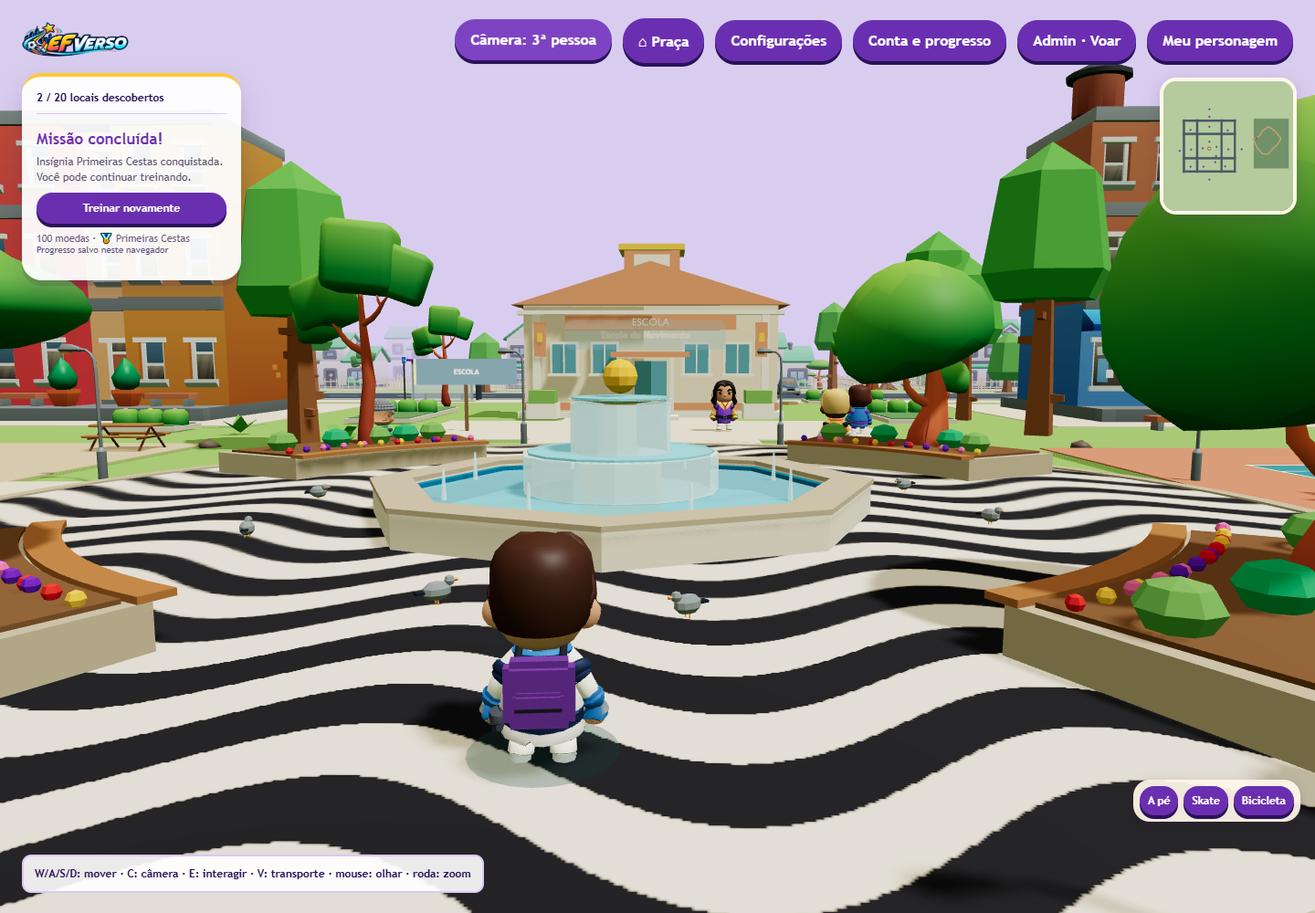
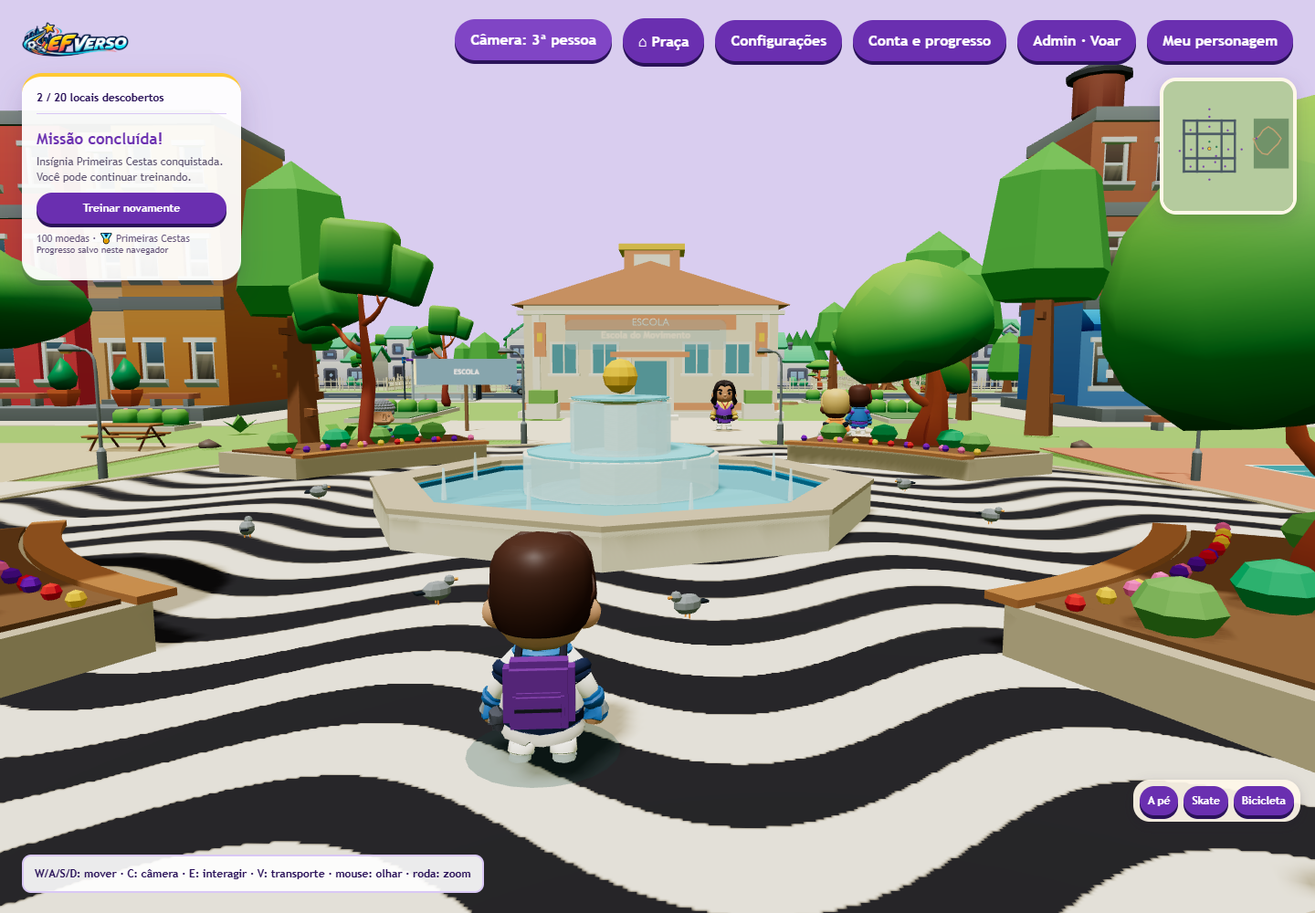
Céu dia/noite, mais trânsito com sinal, skate/bike com embalo e acampamento
- src/sky.js: céu dinâmico no horário real de Brasília (sol, lua, estrelas,
  cor do céu/neblina); campo de visão bem mais longe.
- src/traffic.js: 18 veículos (antes 10), sinal de trânsito alternando nos
  cantos da malha viária.
- src/main.js: skate/bike ganham e perdem velocidade aos poucos (embalo) em
  vez de andar/parar instantâneo; A/D vira o personagem por padrão na 3ª
  pessoa (strafe vira opção em Configurações).
- src/adventure.js: Acampamento da Serra (cabanas, fogueira, bancos) e mata
  duas vezes mais densa no Parque de Aventura.
- src/student-character.js: postura agachada no skate em movimento.

diff --git a/src/main.js b/src/main.js
@@ -25,16 +25,23 @@ import {createCloudSave} from './cloud-save.js';
 import {createTravel} from './travel.js';
 import {createTraffic} from './traffic.js';
 import {createAdventure,adventureHeight,canExplore,TRAIL} from './adventure.js';
+import {createSky} from './sky.js';
 const $=s=>document.querySelector(s),scene=new T.Scene(),solids=[],keys=new Set(),touch={x:0,y:0};
-// Colours, light and fog follow Jogo_RPG_EF7 (A Vila em Movimento).
-scene.background=new T.Color('#d9cdef');scene.fog=new T.Fog('#d9cdef',55,120);
+// Céu, cor e neblina: base do visual do Jogo_RPG_EF7, agora variando com o horário real de Brasília
+// (src/sky.js controla scene.background/fog, a luz do sol e a do hemisfério a cada quadro).
+scene.background=new T.Color('#d9cdef');scene.fog=new T.Fog('#d9cdef',140,460);
 const renderer=new T.WebGLRenderer({antialias:true});renderer.setPixelRatio(Math.min(devicePixelRatio,1.5));renderer.setSize(innerWidth,innerHeight);renderer.outputColorSpace=T.SRGBColorSpace;renderer.toneMapping=T.ACESFilmicToneMapping;renderer.toneMappingExposure=1.05;$('#world').append(renderer.domElement);
 renderer.shadowMap.enabled=!matchMedia('(pointer:coarse)').matches;renderer.shadowMap.type=T.PCFSoftShadowMap;
-scene.add(new T.HemisphereLight(0xfff6e0,0x6f8a4e,1.6));const sun=new T.DirectionalLight(0xffffff,2.2);sun.castShadow=true;sun.shadow.mapSize.set(1024,1024);Object.assign(sun.shadow.camera,{left:-28,right:28,top:28,bottom:-28,near:1,far:120});sun.shadow.normalBias=.03;sun.shadow.bias=-.0005;scene.add(sun,sun.target);
+const hemi=new T.HemisphereLight(0xfff6e0,0x6f8a4e,1.6);scene.add(hemi);const sun=new T.DirectionalLight(0xffffff,2.2);sun.castShadow=true;sun.shadow.mapSize.set(1024,1024);Object.assign(sun.shadow.camera,{left:-28,right:28,top:28,bottom:-28,near:1,far:120});sun.shadow.normalBias=.03;sun.shadow.bias=-.0005;scene.add(sun,sun.target);
+const sky=createSky({scene,sun,hemisphere:hemi});
 // 'cima': 3/4 view from above that follows the student; 'third': behind the student. Mouse wheel zooms both.
-const iso=new T.PerspectiveCamera(42,innerWidth/innerHeight,.3,200),third=new T.PerspectiveCamera(55,innerWidth/innerHeight,.1,130);
+// Campo de visão mais longe: dá para ver prédios e a montanha de longe em vez de sumirem na neblina perto.
+const iso=new T.PerspectiveCamera(42,innerWidth/innerHeight,.3,650),third=new T.PerspectiveCamera(55,innerWidth/innerHeight,.1,550);
 let zoom=1,thirdDistance=6;
 let mode='iso',yaw=0,active=iso,thirdPitch=.07,ready=false,navigation,nearest=null,nearbyResident=null,route=[],running=false,verticalSpeed=0,elapsed=0,avatar,mission,customizer,crowd,skaters,ambient,hoopsMatch,soccerMatch,volleyMatch,skateMatch,onboarding,theory,travel,traffic,adventure,cloud;
+// Skate/bicicleta ganham e perdem velocidade aos poucos (em vez de andar/parar instantâneo como a
+// pé) e continuam deslizando/pedalando um pouco na última direção ao soltar as teclas (embalo).
+let rideSpeed=0;const rideDir={x:0,z:1};
 let storage;try{storage=localStorage;}catch{storage={getItem(){throw Error('Storage unavailable');},setItem(){throw Error('Storage unavailable');}};}
 const progress=createProgress(storage),wallet=createWallet(storage),visited=new Set(progress.state.visited),dialog=$('#info'),labels=[];
 const player=new T.Group();player.position.set(0,0,10);scene.add(player);
@@ -104,7 +111,7 @@ joy.onpointerdown=e=>{if(joyId!==null)return;joyId=e.pointerId;joy.setPointerCap
 function resize(){renderer.setSize(innerWidth,innerHeight);const a=innerWidth/innerHeight;iso.aspect=third.aspect=a;iso.updateProjectionMatrix();third.updateProjectionMatrix();}
 renderer.domElement.addEventListener('wheel',e=>{if(flight.enabled)return;e.preventDefault();const step=Math.sign(e.deltaY);if(mode==='third')thirdDistance=T.MathUtils.clamp(thirdDistance+step*.7,3.5,11);else zoom=T.MathUtils.clamp(zoom+step*.1,.55,1.6);},{passive:false});addEventListener('resize',resize);resize();
 function updateCamera(dt,snap=false){
- sun.position.copy(player.position).add(new T.Vector3(18,34,14));sun.target.position.copy(player.position);const focus=player.position.clone().add(new T.Vector3(0,1,0));
+ const focus=player.position.clone().add(new T.Vector3(0,1,0));
  if(mode==='iso'){if(avatar)avatar.visual.visible=true;const k=(innerWidth<700?1.25:1)*zoom,desired=focus.clone().add(new T.Vector3(Math.sin(yaw)*15*k,15*k,Math.cos(yaw)*15*k));if(snap)iso.position.copy(desired);else iso.position.lerp(desired,1-Math.exp(-8*dt));iso.lookAt(focus);return;}
  if(route.length&&!frontView){const p=route[0],angle=Math.atan2(player.position.x-p.x,player.position.z-p.z);yaw+=Math.atan2(Math.sin(angle-yaw),Math.cos(angle-yaw))*(1-Math.exp(-5*dt));}if(!frontView)player.rotation.y=yaw;
  const dir=frontView?-1:1,back=new T.Vector3(Math.sin(yaw)*dir,0,Math.cos(yaw)*dir),right=new T.Vector3(Math.cos(yaw)*dir,0,-Math.sin(yaw)*dir);
@@ -121,6 +128,7 @@ const map=document.createElement('canvas');map.id='minimap';map.width=220;map.he
 function drawMap(){const ctx=map.getContext('2d'),scale=220/510;ctx.fillStyle='#b5cb9e';ctx.fillRect(0,0,220,220);ctx.save();ctx.translate(78,110);ctx.scale(scale,scale);ctx.fillStyle='#719269';ctx.fillRect(174,-108,138,196);ctx.strokeStyle='#c7a273';ctx.lineWidth=5;ctx.beginPath();TRAIL.forEach(([x,z],i)=>i?ctx.lineTo(x,z):ctx.moveTo(x,z));ctx.stroke();ctx.strokeStyle='#4b5964';ctx.lineWidth=9;for(const a of ROAD_AXES){ctx.beginPath();ctx.moveTo(-105,a);ctx.lineTo(105,a);ctx.moveTo(a,-105);ctx.lineTo(a,105);ctx.stroke();}for(const p of places){ctx.fillStyle=visited.has(p.name)?'#2e7954':'#7741a7';ctx.beginPath();ctx.arc(p.x,p.z,4,0,Math.PI*2);ctx.fill();}ctx.fillStyle='#fbc53d';ctx.strokeStyle='#3b3342';ctx.lineWidth=2;ctx.beginPath();ctx.arc(player.position.x,player.position.z,6,0,Math.PI*2);ctx.fill();ctx.stroke();ctx.restore();}
 const clock=new T.Clock();let lastMap=0;
 function frame(){requestAnimationFrame(frame);const dt=Math.min(clock.getDelta(),.05);elapsed+=dt;
+ sky.update(dt,player.position);
  if(!canLook()&&document.pointerLockElement)document.exitPointerLock();
  travel?.update(avatar,0);traffic?.update(dt,player.position,document.hidden||onboarding?.active||settings.isOpen);adventure?.update(player.position,travel?.mode);
  crowd?.update(dt,player.position,{paused:dialog.open||customizer?.isOpen||mission?.locked||hoopsMatch?.active||soccerMatch?.active||volleyMatch?.active||skateMatch?.active||onboarding?.active||theory?.active||frontView,overview:flight.enabled});skaters?.update(dt,player.position,flight.enabled);ambient?.update(dt,player.position);
@@ -136,7 +144,18 @@ function frame(){requestAnimationFrame(frame);const dt=Math.min(clock.getDelta()
   if(mode==='third'&&sx&&!settings.value.strafe){yaw-=sx*2.6*dt;if(sx)route=[];sx=0;}
   let dx=sx*Math.cos(yaw)+sy*Math.sin(yaw),dz=-sx*Math.sin(yaw)+sy*Math.cos(yaw);if(sx||sy)route=[];
   if(route.length){const p=route[0];dx=p.x-player.position.x;dz=p.z-player.position.z;if(Math.hypot(dx,dz)<.3){route.shift();if(!route.length)$('#status').textContent='Você chegou. Explore o marcador próximo.';}}
-  const len=Math.hypot(dx,dz);if(len>.03){const top=travel?.mode!=='walk'?travel?.speed||6:running||settings.pressed(keys,'sprint')?11:6;const speed=top*dt,step=route.length?Math.min(speed,len):speed;dx=dx/len*step;dz=dz/len*step;const next={x:player.position.x+dx,z:player.position.z+dz};navigation.resolve(next,.35,crowd?.positions()||[]);player.position.x=next.x;player.position.z=next.z;player.position.y=grounded?adventureHeight(next.x,next.z):Math.max(adventureHeight(next.x,next.z),player.position.y);if(mode!=='third'||sy<=0)player.rotation.y=Math.atan2(-dx,-dz);}
+  const len=Math.hypot(dx,dz),riding=travel?.mode!=='walk'&&!route.length;
+  if(len>.03){dx/=len;dz/=len;if(riding){rideDir.x=dx;rideDir.z=dz;}}
+  let moveX=0,moveZ=0;
+  if(riding){
+   const top=travel?.speed||6,accel=travel.mode==='bike'?42:30,drag=travel.mode==='bike'?6:4;
+   rideSpeed=len>.03?Math.min(top,rideSpeed+accel*dt):Math.max(0,rideSpeed-drag*dt);
+   if(rideSpeed>.01){const step=rideSpeed*dt;moveX=rideDir.x*step;moveZ=rideDir.z*step;}
+  }else{
+   rideSpeed=0;
+   if(len>.03){const top=running||settings.pressed(keys,'sprint')?11:6,step=route.length?Math.min(top*dt,len):top*dt;moveX=dx*step;moveZ=dz*step;}
+  }
+  if(Math.hypot(moveX,moveZ)>.0005){const next={x:player.position.x+moveX,z:player.position.z+moveZ};navigation.resolve(next,.35,crowd?.positions()||[]);player.position.x=next.x;player.position.z=next.z;player.position.y=grounded?adventureHeight(next.x,next.z):Math.max(adventureHeight(next.x,next.z),player.position.y);if(mode!=='third'||sy<=0)player.rotation.y=Math.atan2(-moveX,-moveZ);}
  }
  updateGuide(dt);
  const moveSpeed=Math.hypot(player.position.x-beforeX,player.position.z-beforeZ)/Math.max(dt,.001);shadow.position.y=adventureHeight(player.position.x,player.position.z)+.19-player.position.y;mission?.update(dt,dialog.open);avatar?.update(dt,{speed:moveSpeed,airborne:player.position.y-adventureHeight(player.position.x,player.position.z)>.1,holding:mission?.holding,throwing:mission?.throwing,charge:mission?.charge,riding:travel?.mode});travel?.update(avatar,moveSpeed);
@@ -170,4 +189,5 @@ buildCity({scene,loader:new GLTFLoader(),solids}).then(async audit=>{
  if(import.meta.env.DEV)window.questReview={wallet:()=>({coins:wallet.coins,badges:wallet.badges}),soccerScore:()=>soccerMatch.score,volleyScore:()=>volleyMatch.score};
  if(import.meta.env.DEV)window.travelReview={traffic:()=>traffic.snapshot(),mode:()=>travel.mode,select:mode=>travel.select(mode),adventure:()=>adventure.snapshot,camera:()=>({mode,yaw,pitch:thirdPitch,avatarVisible:avatar.visual.visible}),avatar:()=>avatar.visual,settings:()=>settings.value};
  if(import.meta.env.DEV)window.skateReview={terrainHeight:skateMatch._terrainHeight,active:()=>skateMatch.active,state:()=>skateMatch._ride()?.state,enter:()=>skateMatch.start(),leave:()=>skateMatch.leave()};
+ if(import.meta.env.DEV)window.skyReview={hour:()=>sky.hour,setHour:h=>sky.setHourOverride(h),background:()=>'#'+scene.background.getHexString(),sunIntensity:()=>sun.intensity,hemiIntensity:()=>hemi.intensity};
 }).catch(error=>{console.error(error);$('#status').textContent='Falha ao carregar a cidade. Recarregue a página.';window.cityReady=true;window.cityStats=()=>({failures:1});});

diff --git a/src/adventure.js b/src/adventure.js
@@ -35,14 +35,39 @@ export function createAdventure({scene}){
   const post=new T.Mesh(new T.CylinderGeometry(.07,.09,2,8),new T.MeshStandardMaterial({color:'#805942'}));post.position.set(mark.x+2.5,base+1,mark.z);group.add(post);
  }
  // Trees are deliberately outside the trail corridor, so both walkers and bikes can pass.
- const trunkMat=new T.MeshStandardMaterial({color:'#826345'}),leafMat=new T.MeshStandardMaterial({color:'#467750'});
+ const trunkMat=new T.MeshStandardMaterial({color:'#826345'}),leafMat=new T.MeshStandardMaterial({color:'#467750'}),leafMat2=new T.MeshStandardMaterial({color:'#5a9159'});
  const distanceToTrail=(x,z)=>Math.min(...TRAIL.slice(0,-1).map(([a,b],i)=>{const [c,d]=TRAIL[i+1],t=T.MathUtils.clamp(((x-a)*(c-a)+(z-b)*(d-b))/((c-a)**2+(d-b)**2),0,1);return Math.hypot(x-a-(c-a)*t,z-b-(d-b)*t);}));
- for(let i=0;i<95;i++){
-  const x=182+(i*37%120),z=-94+(i*53%165);if(distanceToTrail(x,z)<5)continue;
-  const y=adventureHeight(x,z),h=3+i%3;
-  const trunk=new T.Mesh(new T.CylinderGeometry(.13,.22,h,6),trunkMat);trunk.position.set(x,y+h/2,z);group.add(trunk);
-  const leaves=new T.Mesh(new T.ConeGeometry(1.8,h+2,7),leafMat);leaves.position.set(x,y+h+1,z);group.add(leaves);
+ const CAMP={x:300,z:78,r:11};
+ const nearCamp=(x,z)=>Math.hypot(x-CAMP.x,z-CAMP.z)<CAMP.r;
+ // Mata mais densa (240 árvores, o dobro de antes): duas copas diferentes, afastadas da trilha e da clareira do acampamento.
+ for(let i=0;i<240;i++){
+  const x=176+(i*23.7%134),z=-106+(i*41.3%192);if(distanceToTrail(x,z)<4.5||nearCamp(x,z))continue;
+  const y=adventureHeight(x,z),h=2.6+(i%5)*.7,leaf=i%3?leafMat:leafMat2;
+  const trunk=new T.Mesh(new T.CylinderGeometry(.12,.2,h,6),trunkMat);trunk.position.set(x,y+h/2,z);trunk.castShadow=true;group.add(trunk);
+  const leaves=new T.Mesh(new T.ConeGeometry(1.5+i%3*.3,h+1.8,7),leaf);leaves.position.set(x,y+h+.9,z);leaves.castShadow=true;group.add(leaves);
  }
+ // Acampamento: clareira com cabanas de toras, fogueira e bancos — perto do Mirante, numa área mais plana.
+ const cabinWall=new T.MeshStandardMaterial({color:'#8a6239',roughness:.95}),cabinRoof=new T.MeshStandardMaterial({color:'#5c3a28',roughness:.85}),cabinDoor=new T.MeshStandardMaterial({color:'#3a2415'}),stoneMat=new T.MeshStandardMaterial({color:'#8a8a86',roughness:1}),logMat=new T.MeshStandardMaterial({color:'#6b4a30',roughness:.9});
+ function cabin(x,z,rot){
+  const y=adventureHeight(x,z);
+  const walls=new T.Mesh(new T.BoxGeometry(4.4,2.3,3.6),cabinWall);walls.position.set(x,y+1.15,z);walls.rotation.y=rot;walls.castShadow=walls.receiveShadow=true;group.add(walls);
+  const roof=new T.Mesh(new T.ConeGeometry(3.5,1.7,4),cabinRoof);roof.position.set(x,y+2.3+.85,z);roof.rotation.y=rot+Math.PI/4;roof.castShadow=true;group.add(roof);
+  const door=new T.Mesh(new T.BoxGeometry(.9,1.65,.1),cabinDoor);door.position.set(x+Math.sin(rot)*1.81,y+.82,z+Math.cos(rot)*1.81);door.rotation.y=rot;group.add(door);
+  const chimney=new T.Mesh(new T.BoxGeometry(.5,1.5,.5),stoneMat);chimney.position.set(x-Math.sin(rot)*1.4-Math.cos(rot)*1,y+2.3+1,z-Math.cos(rot)*1.4+Math.sin(rot)*1);group.add(chimney);
+ }
+ cabin(CAMP.x-6,CAMP.z-2,Math.PI*.15);
+ cabin(CAMP.x+5,CAMP.z+4,-Math.PI*.6);
+ cabin(CAMP.x-2,CAMP.z+8,Math.PI*.95);
+ // Fogueira central: pedras em círculo, lenha cruzada e uma luz quente.
+ const fireY=adventureHeight(CAMP.x,CAMP.z);
+ for(let i=0;i<10;i++){const a=i/10*Math.PI*2,sx=CAMP.x+Math.cos(a)*.9,sz=CAMP.z+Math.sin(a)*.9;const stone=new T.Mesh(new T.SphereGeometry(.18,6,5),stoneMat);stone.position.set(sx,fireY+.1,sz);stone.scale.y=.7;group.add(stone);}
+ for(const r of [0,Math.PI/2]){const log=new T.Mesh(new T.CylinderGeometry(.08,.08,1.3,6),logMat);log.position.set(CAMP.x,fireY+.15,CAMP.z);log.rotation.z=Math.PI/2;log.rotation.y=r;group.add(log);}
+ const fireLight=new T.PointLight('#ff9a4d',6,9,2);fireLight.position.set(CAMP.x,fireY+.6,CAMP.z);group.add(fireLight);
+ for(const [dx,dz] of [[-2.6,-1.6],[2.6,1.6],[0,2.8]]){const bench=new T.Mesh(new T.BoxGeometry(1.5,.4,.4),logMat);bench.position.set(CAMP.x+dx,fireY+.2,CAMP.z+dz);bench.lookAt(CAMP.x,fireY+.2,CAMP.z);group.add(bench);}
+ {const canvas=document.createElement('canvas');canvas.width=512;canvas.height=160;const c=canvas.getContext('2d');c.fillStyle='#244d40';c.fillRect(0,0,512,160);c.fillStyle='#ffe7a0';c.font='bold 34px sans-serif';c.textAlign='center';c.fillText('Acampamento da Serra',256,64);c.font='23px sans-serif';c.fillText('Cabanas, fogueira e bancos de tora',256,115);
+  const sign=new T.Mesh(new T.PlaneGeometry(4,1.25),new T.MeshBasicMaterial({map:new T.CanvasTexture(canvas),side:T.DoubleSide}));sign.position.set(CAMP.x+9,fireY+2,CAMP.z-7);group.add(sign);
+  const post=new T.Mesh(new T.CylinderGeometry(.07,.09,2,8),new T.MeshStandardMaterial({color:'#805942'}));post.position.set(CAMP.x+9,fireY+1,CAMP.z-7);group.add(post);
+  milestones.push({x:CAMP.x+9,z:CAMP.z-7,name:'Acampamento da Serra'});}
  const readout=document.createElement('div');readout.className='adventure-readout';readout.hidden=true;document.body.append(readout);
  const visited=new Set();
  return {height:adventureHeight,update(pos,mode){readout.hidden=pos.x<174||pos.x>312||pos.z< -108||pos.z>88;if(readout.hidden)return;for(const m of milestones)if(Math.hypot(pos.x-m.x,pos.z-m.z)<5)visited.add(m.name);readout.textContent=`Parque de Aventura · ${Math.round(pos.y)} m · ${mode==='bike'?'Mountain bike':'Trilha / trekking'} · ${visited.size}/${milestones.length} pontos explorados`;},get snapshot(){return {visited:[...visited],milestones};}};

diff --git a/src/sky.js b/src/sky.js
@@ -1,0 +1,90 @@
+import * as T from 'three';
+// Céu dinâmico, no horário real de Brasília (America/Sao_Paulo, sem precisar saber o fuso do
+// jogador): posição do sol e da lua, cor do céu/neblina ao longo do dia, e um campo de estrelas que
+// aparece à noite. O sol e a lua são discos simples (MeshBasicMaterial, sem neblina) presos à volta
+// do aluno, numa esfera grande, então sempre parecem estar "no céu" de qualquer ponto da cidade.
+const RADIUS = 700;
+
+function brasiliaHour() {
+ const fmt = new Intl.DateTimeFormat('en-US', {timeZone: 'America/Sao_Paulo', hour: '2-digit', minute: '2-digit', second: '2-digit', hour12: false});
+ const p = Object.fromEntries(fmt.formatToParts(new Date()).map(x => [x.type, x.value]));
+ return (+p.hour) + (+p.minute) / 60 + (+p.second) / 3600;
+}
+
+function lerpColor(a, b, t) {
+ return new T.Color(a).lerp(new T.Color(b), T.MathUtils.clamp(t, 0, 1));
+}
+
+/** Céu por altura do sol (elevation, -1..1): madrugada/noite, nascer/pôr, dia. */
+function skyColor(elevation) {
+ if (elevation > .2) return lerpColor('#b9d9e8', '#d9cdef', T.MathUtils.clamp((elevation - .2) / .3, 0, 1));
+ if (elevation > -.15) return lerpColor('#2d2a52', '#f3a35c', T.MathUtils.clamp((elevation + .15) / .35, 0, 1));
+ return lerpColor('#05050f', '#2d2a52', T.MathUtils.clamp((elevation + .4) / .25, 0, 1));
+}
+
+function starField() {
+ const n = 1400, pos = new Float32Array(n * 3);
+ for (let i = 0; i < n; i++) {
+  const u = Math.random(), v = Math.random(), theta = u * Math.PI * 2, phi = Math.acos(2 * v - 1);
+  const r = RADIUS * .97;
+  pos[i * 3] = r * Math.sin(phi) * Math.cos(theta);
+  pos[i * 3 + 1] = Math.abs(r * Math.cos(phi)) * .6 + r * .1; // mantém as estrelas na metade de cima
+  pos[i * 3 + 2] = r * Math.sin(phi) * Math.sin(theta);
+ }
+ const geo = new T.BufferGeometry();
+ geo.setAttribute('position', new T.BufferAttribute(pos, 3));
+ const mat = new T.PointsMaterial({color: '#ffffff', size: 2.4, sizeAttenuation: false, transparent: true, opacity: 0, fog: false});
+ const points = new T.Points(geo, mat);
+ points.frustumCulled = false;
+ return points;
+}
+
+function disc(color, size, emissive) {
+ const mesh = new T.Mesh(new T.CircleGeometry(size, 24), new T.MeshBasicMaterial({color, transparent: true, fog: false, depthWrite: false}));
+ mesh.frustumCulled = false;
+ if (emissive) mesh.renderOrder = 10;
+ return mesh;
+}
+
+export function createSky({scene, sun, hemisphere}) {
+ const stars = starField();
+ const sunDisc = disc('#fff3c4', 26), moonDisc = disc('#e6ecf5', 18);
+ scene.add(stars, sunDisc, moonDisc);
+ const sunBaseIntensity = sun.intensity, hemiBaseIntensity = hemisphere.intensity;
+ const dayHemi = new T.Color(0xfff6e0), nightHemi = new T.Color(0x24345c);
+ const dayGround = new T.Color(0x6f8a4e), nightGround = new T.Color(0x11182c);
+ let hour = brasiliaHour(), lastSync = 0, override = null;
+ function update(dt, player) {
+  if (override !== null) hour = override;
+  else {
+   lastSync += dt;
+   if (lastSync > 5) {lastSync = 0; hour = brasiliaHour();} else hour = (hour + dt / 3600) % 24;
+  }
+  const theta = ((hour - 6) / 24) * Math.PI * 2;
+  const sunDir = new T.Vector3(Math.cos(theta), Math.sin(theta), .42).normalize();
+  const moonDir = sunDir.clone().multiplyScalar(-1);
+  const elevation = sunDir.y, night = T.MathUtils.clamp(-elevation / .4, 0, 1);
+  // Sol/lua visíveis: discos longe do aluno na direção certa; o DirectionalLight segue o aluno
+  // (para a sombra ficar sempre perto), mas na mesma direção do sol de verdade.
+  sunDisc.position.copy(player).addScaledVector(sunDir, RADIUS);
+  sunDisc.lookAt(player);
+  moonDisc.position.copy(player).addScaledVector(moonDir, RADIUS);
+  moonDisc.lookAt(player);
+  sunDisc.visible = sunDir.y > -.08;
+  moonDisc.visible = moonDir.y > -.08;
+  sun.position.copy(player).addScaledVector(sunDir, 40);
+  sun.target.position.copy(player);
+  sun.intensity = sunBaseIntensity * T.MathUtils.clamp(elevation / .3 + .15, .04, 1);
+  sun.color.set(elevation < .15 ? lerpColor('#ffd9a0', '#ffffff', T.MathUtils.clamp(elevation / .15, 0, 1)) : '#ffffff');
+  hemisphere.intensity = T.MathUtils.lerp(hemiBaseIntensity * .22, hemiBaseIntensity, 1 - night);
+  hemisphere.color.copy(nightHemi).lerp(dayHemi, 1 - night);
+  hemisphere.groundColor.copy(nightGround).lerp(dayGround, 1 - night);
+  const sky = skyColor(elevation);
+  scene.background = sky;
+  if (scene.fog) scene.fog.color.copy(sky);
+  stars.material.opacity = night * .9;
+  stars.position.copy(player);
+ }
+ update(0, new T.Vector3());
+ return {update, get hour() {return hour;}, setHourOverride(h) {override = h;}};
+}

diff --git a/src/traffic.js b/src/traffic.js
@@ -36,26 +36,37 @@ function fitVehicle(original,length){
  original.position.set(-center.x,-fitted.min.y,-center.z);
  original.traverse(o=>{if(o.isMesh)o.castShadow=true;});
 }
+// Sinal de trânsito simples: cada laço passa por 4 "cantos" (um por esquina real da malha viária).
+// Cantos pares e ímpares alternam aberto/fechado, como um cruzamento de verdade virando entre os dois
+// sentidos — e como é o mesmo relógio para a pista interna e a externa, dá pra ver cruzamentos
+// parados e outros liberados ao mesmo tempo, não tudo andando ou tudo parado junto.
+const LIGHT_PERIOD=12,LIGHT_STOP=6.5;
+const lightRed=(corner,time)=>(corner%2===0)===((time%LIGHT_PERIOD)<LIGHT_PERIOD/2);
+const CAR_COUNT=13,BUS_COUNT=5;
 export async function createTraffic({scene,loader}){
  const [file,busFile]=await Promise.all([loader.loadAsync('/models/vila-pack.glb'),loader.loadAsync('/models/props/onibus.glb')]);
  const group=new T.Group();group.name='Trânsito';group.userData.noCameraCollision=true;scene.add(group);
  const inner=makeRoute(-48,48),outer=makeRoute(-100,100),vehicles=[];
- for(let i=0;i<10;i++){
-  const bus=i>=8,route=bus?outer:inner;
+ const total=CAR_COUNT+BUS_COUNT;
+ for(let i=0;i<total;i++){
+  const bus=i>=CAR_COUNT,route=bus?outer:inner,slot=bus?i-CAR_COUNT:i,count=bus?BUS_COUNT:CAR_COUNT;
   const original=bus?busFile.scene.clone(true):file.scene.getObjectByName('M_'+['car_hatchback','car_sedan','car_taxi','car_stationwagon'][i%4]).clone(true);
   if(!bus)alignForward(original); // o ônibus já foi modelado de frente para -Z (ver tools/build_city_props.py).
   fitVehicle(original,bus?0:CAR_LENGTH);
   const root=new T.Group();root.add(original);group.add(root);
-  vehicles.push({root,bus,route,length:route.getLength(),distance:route.getLength()*(bus?(i-8)/2:i/8),speed:bus?7:9+i%3,wait:0,lastStop:-1});
+  vehicles.push({root,bus,route,length:route.getLength(),distance:route.getLength()*slot/count,speed:bus?7:9+i%3,wait:0,lastStop:-1});
  }
  let time=0;
  return {group,update(dt,player,paused=false){if(paused)return;time+=dt;for(const v of vehicles){
   const t=(v.distance%v.length)/v.length,p=v.route.getPointAt(t),tangent=v.route.getTangentAt(t),dx=player.x-p.x,dz=player.z-p.z;
   const pedestrian=Math.abs(dx*tangent.z-dz*tangent.x)<2.1&&dx*tangent.x+dz*tangent.z>0&&dx*tangent.x+dz*tangent.z<7;
   const leader=vehicles.some(o=>o!==v&&o.route===v.route&&(o.distance-v.distance+v.length)%v.length<(v.bus?11:6));
-  const lap=Math.floor(v.distance/v.length),stopId=lap*4+Math.floor(t*4);
+  const corner=Math.floor(t*4),distToCorner=(1-(t*4-corner))/4*v.length,nextCorner=(corner+1)%4;
+  const redLight=distToCorner<LIGHT_STOP&&lightRed(nextCorner,time);
+  const lap=Math.floor(v.distance/v.length),stopId=lap*4+corner;
   if(v.bus&&Math.abs(p.z+100+LANE)<1&&Math.abs(p.x-14)<1&&v.lastStop!==stopId){v.wait=3;v.lastStop=stopId;}
-  v.wait=Math.max(0,v.wait-dt);if(!pedestrian&&!leader&&v.wait===0)v.distance+=v.speed*dt;
+  v.wait=Math.max(0,v.wait-dt);v.stoppedAtLight=redLight&&!pedestrian&&!leader&&v.wait===0;
+  if(!pedestrian&&!leader&&!redLight&&v.wait===0)v.distance+=v.speed*dt;
   v.root.position.set(p.x,.12,p.z);v.root.rotation.y=Math.atan2(-tangent.x,-tangent.z);
- }},snapshot(){return vehicles.map(v=>({bus:v.bus,x:v.root.position.x,z:v.root.position.z,distance:v.distance,waiting:v.wait>0}));}};
+ }},snapshot(){return vehicles.map(v=>({bus:v.bus,x:v.root.position.x,z:v.root.position.z,distance:v.distance,waiting:v.wait>0,stoppedAtLight:!!v.stoppedAtLight}));}};
 }

diff --git a/src/settings.js b/src/settings.js
@@ -4,7 +4,7 @@ export const DEFAULT_CONTROLS={forward:'w',back:'s',left:'a',right:'d',sprint:'s
 const LABELS={forward:'Avançar',back:'Recuar',left:'Esquerda',right:'Direita',sprint:'Correr',jump:'Pular',interact:'Interagir',camera:'Trocar câmera',mirror:'Olhar de frente',travel:'Trocar transporte'};
 const display=k=>k===' '?'Espaço':k==='shift'?'Shift':k.toUpperCase();
 export function createSettings({stopMovement,canOpen}){
- let value={keys:{...DEFAULT_CONTROLS},sensitivity:.004,invert:false,mouse:'drag',strafe:true};
+ let value={keys:{...DEFAULT_CONTROLS},sensitivity:.004,invert:false,mouse:'drag',strafe:false};
  try{const saved=JSON.parse(localStorage.getItem(KEY));if(saved){for(const [a,k] of Object.entries(saved.keys||{}))if(a in DEFAULT_CONTROLS&&typeof k==='string')value.keys[a]=k;for(const k of ['invert','strafe'])if(typeof saved[k]==='boolean')value[k]=saved[k];if(['drag','lock'].includes(saved.mouse))value.mouse=saved.mouse;if(Number.isFinite(saved.sensitivity))value.sensitivity=Math.min(.012,Math.max(.001,saved.sensitivity));}}catch{}
  const button=document.createElement('button');button.id='settings-open';button.textContent='Configurações';document.querySelector('header').append(button);
  const panel=document.createElement('dialog');panel.id='settings-dialog';panel.className='city-dialog';panel.setAttribute('aria-label','Configurações de controles');document.body.append(panel);
@@ -14,7 +14,7 @@ export function createSettings({stopMovement,canOpen}){
  function render(){panel.innerHTML=`<h2>Controles da cidade</h2><p>Escolha uma ação e pressione a nova tecla. As setas também movimentam o personagem.</p><div class="binding-grid">${Object.entries(LABELS).map(([a,label])=>`<label>${label}<button type="button" data-binding="${a}">${pending===a?'Pressione uma tecla…':display(draft.keys[a])}</button></label>`).join('')}</div><label>Câmera com mouse <select id="mouse-mode"><option value="drag">Arrastar no cenário</option><option value="lock">Clique para capturar o mouse · Esc libera</option></select></label><label>Sensibilidade <input id="mouse-sensitivity" type="range" min="1" max="12" value="${draft.sensitivity*1000}"></label><label><input id="mouse-invert" type="checkbox" ${draft.invert?'checked':''}> Inverter movimento vertical</label><label><input id="city-strafe" type="checkbox" ${draft.strafe?'checked':''}> A/D movimentam de lado na 3ª pessoa</label><p id="binding-message" role="status"></p><div class="dialog-actions"><button id="controls-reset">Restaurar padrão</button><button id="settings-cancel">Cancelar</button><button id="settings-save">Salvar</button></div>`;
   panel.querySelector('#mouse-mode').value=draft.mouse;
   panel.querySelectorAll('[data-binding]').forEach(b=>b.onclick=()=>{read();pending=b.dataset.binding;render();});
-  panel.querySelector('#controls-reset').onclick=()=>{draft={keys:{...DEFAULT_CONTROLS},sensitivity:.004,invert:false,mouse:'drag',strafe:true};pending=null;render();};
+  panel.querySelector('#controls-reset').onclick=()=>{draft={keys:{...DEFAULT_CONTROLS},sensitivity:.004,invert:false,mouse:'drag',strafe:false};pending=null;render();};
   panel.querySelector('#settings-cancel').onclick=()=>panel.close();
   panel.querySelector('#settings-save').onclick=()=>{read();value=draft;try{localStorage.setItem(KEY,JSON.stringify(value));}catch{}refreshHelp();panel.close();};
  }

diff --git a/src/student-character.js b/src/student-character.js
@@ -139,7 +139,9 @@ export async function createCharacter(loader,role='student',height=role.includes
  function update(dt,{speed=0,airborne=false,holding=false,throwing=false,charge=0,riding='walk'}={}){
   const wheel=appearance.mobility!=='none';
   state=throwing?'holding-both-shoot':airborne?'jump':holding?'holding-both':speed>8?'sprint':speed>.2?'walk':'idle';
-  const next=throwing||holding?(wheel?'Wheel_Throw':'Throw'):wheel||riding==='bike'?'Sit_Chair_Idle':airborne?'Jump_Idle':riding==='skate'?'Idle_A':speed>8?'Running_A':speed>.2?'Walking_A':'Idle_A';
+  // No skate, uma postura agachada (sem clipe de empurrar o skate no pacote) pelo menos muda quando
+  // anda, em vez de ficar parado em pé "flutuando" sobre a prancha com o skate em movimento.
+  const next=throwing||holding?(wheel?'Wheel_Throw':'Throw'):wheel||riding==='bike'?'Sit_Chair_Idle':airborne?'Jump_Idle':riding==='skate'?(speed>.3?'Crouching':'Idle_A'):speed>8?'Running_A':speed>.2?'Walking_A':'Idle_A';
   play(next,throwing?.05:.18);
   // Carregando o arremesso: quanto mais força, mais o braço vai para trás (balanço de 0,28 s a 0,6 s do Throw).
   if(holding&&!throwing){current.paused=false;current.time=THROW.windup+charge*(THROW.cocked-THROW.windup);}

diff --git a/README.md b/README.md
@@ -4,6 +4,20 @@ Execute `npm install` e `npm run dev` nesta pasta. Abra o endereço mostrado pel
 
 No celular, use o endereço de rede exibido pelo Vite, com computador e celular na mesma rede. O firewall do computador precisa permitir a conexão. Não é necessário instalar aplicativo no celular.
 
+## Céu dia/noite, mais trânsito, skate/bike com embalo e acampamento — 28/10/2026 (noite)
+
+**Céu de verdade, no horário de Brasília** (`src/sky.js`). O jogo consulta o relógio real (fuso `America/Sao_Paulo`, sem precisar saber o fuso do jogador) e muda a cor do céu/neblina, a posição e intensidade do sol, e acende a lua e um campo de estrelas à noite — tudo contínuo ao longo do dia, não só dois estados. A luz do sol (que já seguia o aluno para a sombra) agora também gira de direção. Campo de visão bem mais longe (neblina de 140–460 m, câmeras com alcance de até 650 m) para dar pra ver a cidade e a montanha de longe.
+
+**Trânsito: mais carros e ônibus, sinal de verdade.** De 10 para 18 veículos (13 carros, 5 ônibus). Cada um dos 4 cantos de cada laço da malha viária tem um sinal que alterna aberto/fechado (os pares e os ímpares se revezam, como um cruzamento de verdade) — os veículos freiam antes do sinal fechado, sem se sobrepor uns aos outros (já tinha controle de distância do carro da frente).
+
+**Skate e bicicleta com embalo de verdade.** Antes, qualquer modo de transporte andava e parava instantaneamente, na mesma velocidade de giro do andar a pé. Agora skate e bike ganham velocidade aos poucos ao empurrar e continuam deslizando/pedalando um pouco na direção em que estavam indo ao soltar a tecla (saem numa rampa até a velocidade máxima, não liga/desliga). A trilha do Parque de Aventura (mountain bike) já estava aberta para andar — confirmado por teste automatizado (mais de 27 m percorridos de bike em 1,5 s nela). No skate, a animação deixou de ficar parada em pé mesmo andando rápido (usa uma postura agachada quando em movimento, já que o pacote de animações não tem um clipe de empurrar o skate).
+
+**Câmera em 3ª pessoa: A/D vira o personagem por padrão** (como pedido) — virar de lado (strafe) continua disponível em Configurações, só não é mais o padrão.
+
+**Acampamento da Serra, no Parque de Aventura.** Clareira com três cabanas de madeira (parede, telhado, porta, chaminé), fogueira central com pedras, lenha cruzada, luz quente e bancos de tora, e uma placa própria — ponto novo contado no progresso da trilha. Mata da montanha ficou duas vezes mais densa (240 árvores, duas cores de copa), ainda afastada do corredor da trilha e da clareira do acampamento.
+
+Verificação: `node tools/verify-city-upgrade.mjs` cobre o céu, o trânsito com sinal, skate/bike (cidade e trilha) e a 3ª pessoa; `node tools/verify-city.mjs` e os demais `verify-*.mjs`/`*.test.mjs` continuam cobrindo o resto.
+
 ## Carros andando de lado: corrigido — 28/10/2026 (fim de tarde)
 
 A correção da mão da via (acima) deixou os carros bem mais visíveis — e aí apareceu um segundo bug: eles andavam de **lado**, mostrando a lateral em vez da frente. Causa: o carro recebia uma rotação fixa de 90° (`original.rotation.y=Math.PI/2`) somada à rotação da rota (que já aponta a direção certa sozinha) — a soma das duas ficava 90° errada. Reescrevi `src/traffic.js`: em vez de um ângulo fixo, a frente de cada carro é descoberta pelas próprias rodas do pacote (`wheel_front_*`/`wheel_rear_*`), então funciona para qualquer um dos 4 modelos sem precisar adivinhar. Conferido matematicamente: a direção real de cada um dos 8 carros (frente→trás, pelas rodas) bate exatamente com a direção da pista.
